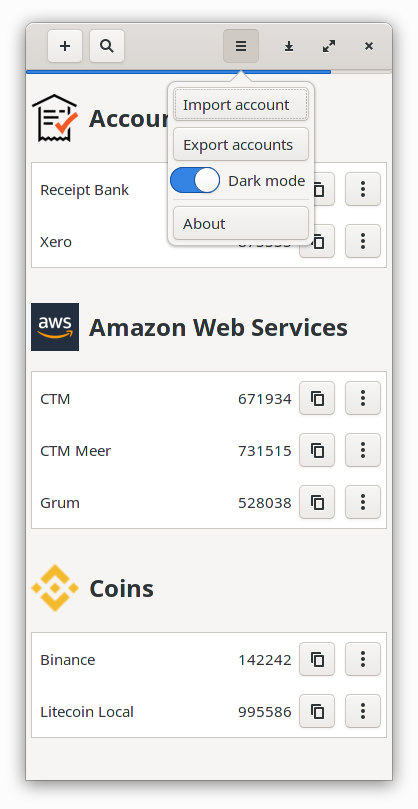
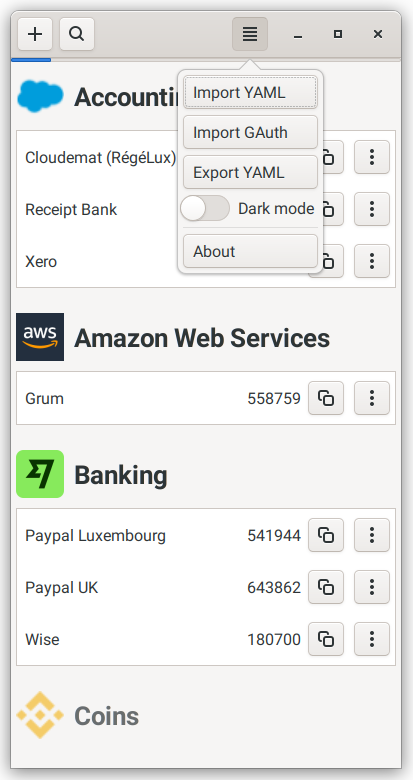
Readme update (#143)
Readme update (#143)

Changed region(s): [[0.0, 0.0, 1.0, 1.0], [0.5811, 0.7385, 0.7264, 0.7692]]

diff --git a/README.md b/README.md
@@ -4,8 +4,6 @@ AUTHENTICATOR-RS
 
 Authenticator-rs is a TOTP-MFA application written in Rust and GTK3.
 
-This application is very much a work in progress.
-
 It is initially inspired by [authenticator](https://gitlab.gnome.org/World/Authenticator), which sadly sort of 
 [broke](https://aur.archlinux.org/packages/authenticator/) for me 
 in the latest versions of python shipped with [Arch Linux](https://www.archlinux.org/).
@@ -15,31 +13,34 @@ but definitely in the rough...
 
 ## Features
 
-### Dark themes friendly
+### Importing and exporting - including google authenticator exports
 
-![authenticator-rs](./data/screenshots/screenshot1.png "Main view")
-![authenticator-rs](./data/screenshots/screenshot2.png "Main view")
-
-### Group editing
-
-![authenticator-rs](./data/screenshots/screenshot3.png "Group editing")
-
-### Account editing
-
-![authenticator-rs](./data/screenshots/screenshot4.png "Account editing")
-
-### Importing and exporting
-
-Using `yaml` format
+- Using `yaml` format:
 
     ---
-    - name: group name
-      url: bbc.co.uk
-      entries:
-        - label: Account 1
-          secret: secret code
+        - name: group name
+          url: bbc.co.uk
+          entries:
+            - label: Account 1
+              secret: secret code
 
-![authenticator-rs](./data/screenshots/screenshot5.png "Importing")
+    [<img src="./data/screenshots/screenshot5.png" width="400" />](./data/screenshots/screenshot5.png)
+
+- Using `google authenticator` format:
+
+    Google Authenticator exports in the shape of a `qrcode` image can be imported directly. `authenticator-rs` will import these files by choosing the
+    `Import GAuth` option from the top menu.
+
+
+### Dark themes friendly
+
+[<img src="./data/screenshots/screenshot1.png" width="400" />](./data/screenshots/screenshot1.png)
+[<img src="./data/screenshots/screenshot2.png" width="400" />](./data/screenshots/screenshot2.png)
+
+### Group and account editing
+[<img src="./data/screenshots/screenshot3.png" width="400" />](./data/screenshots/screenshot3.png)
+[<img src="./data/screenshots/screenshot4.png" width="400" />](./data/screenshots/screenshot4.png)
+
 
 ## License
 
